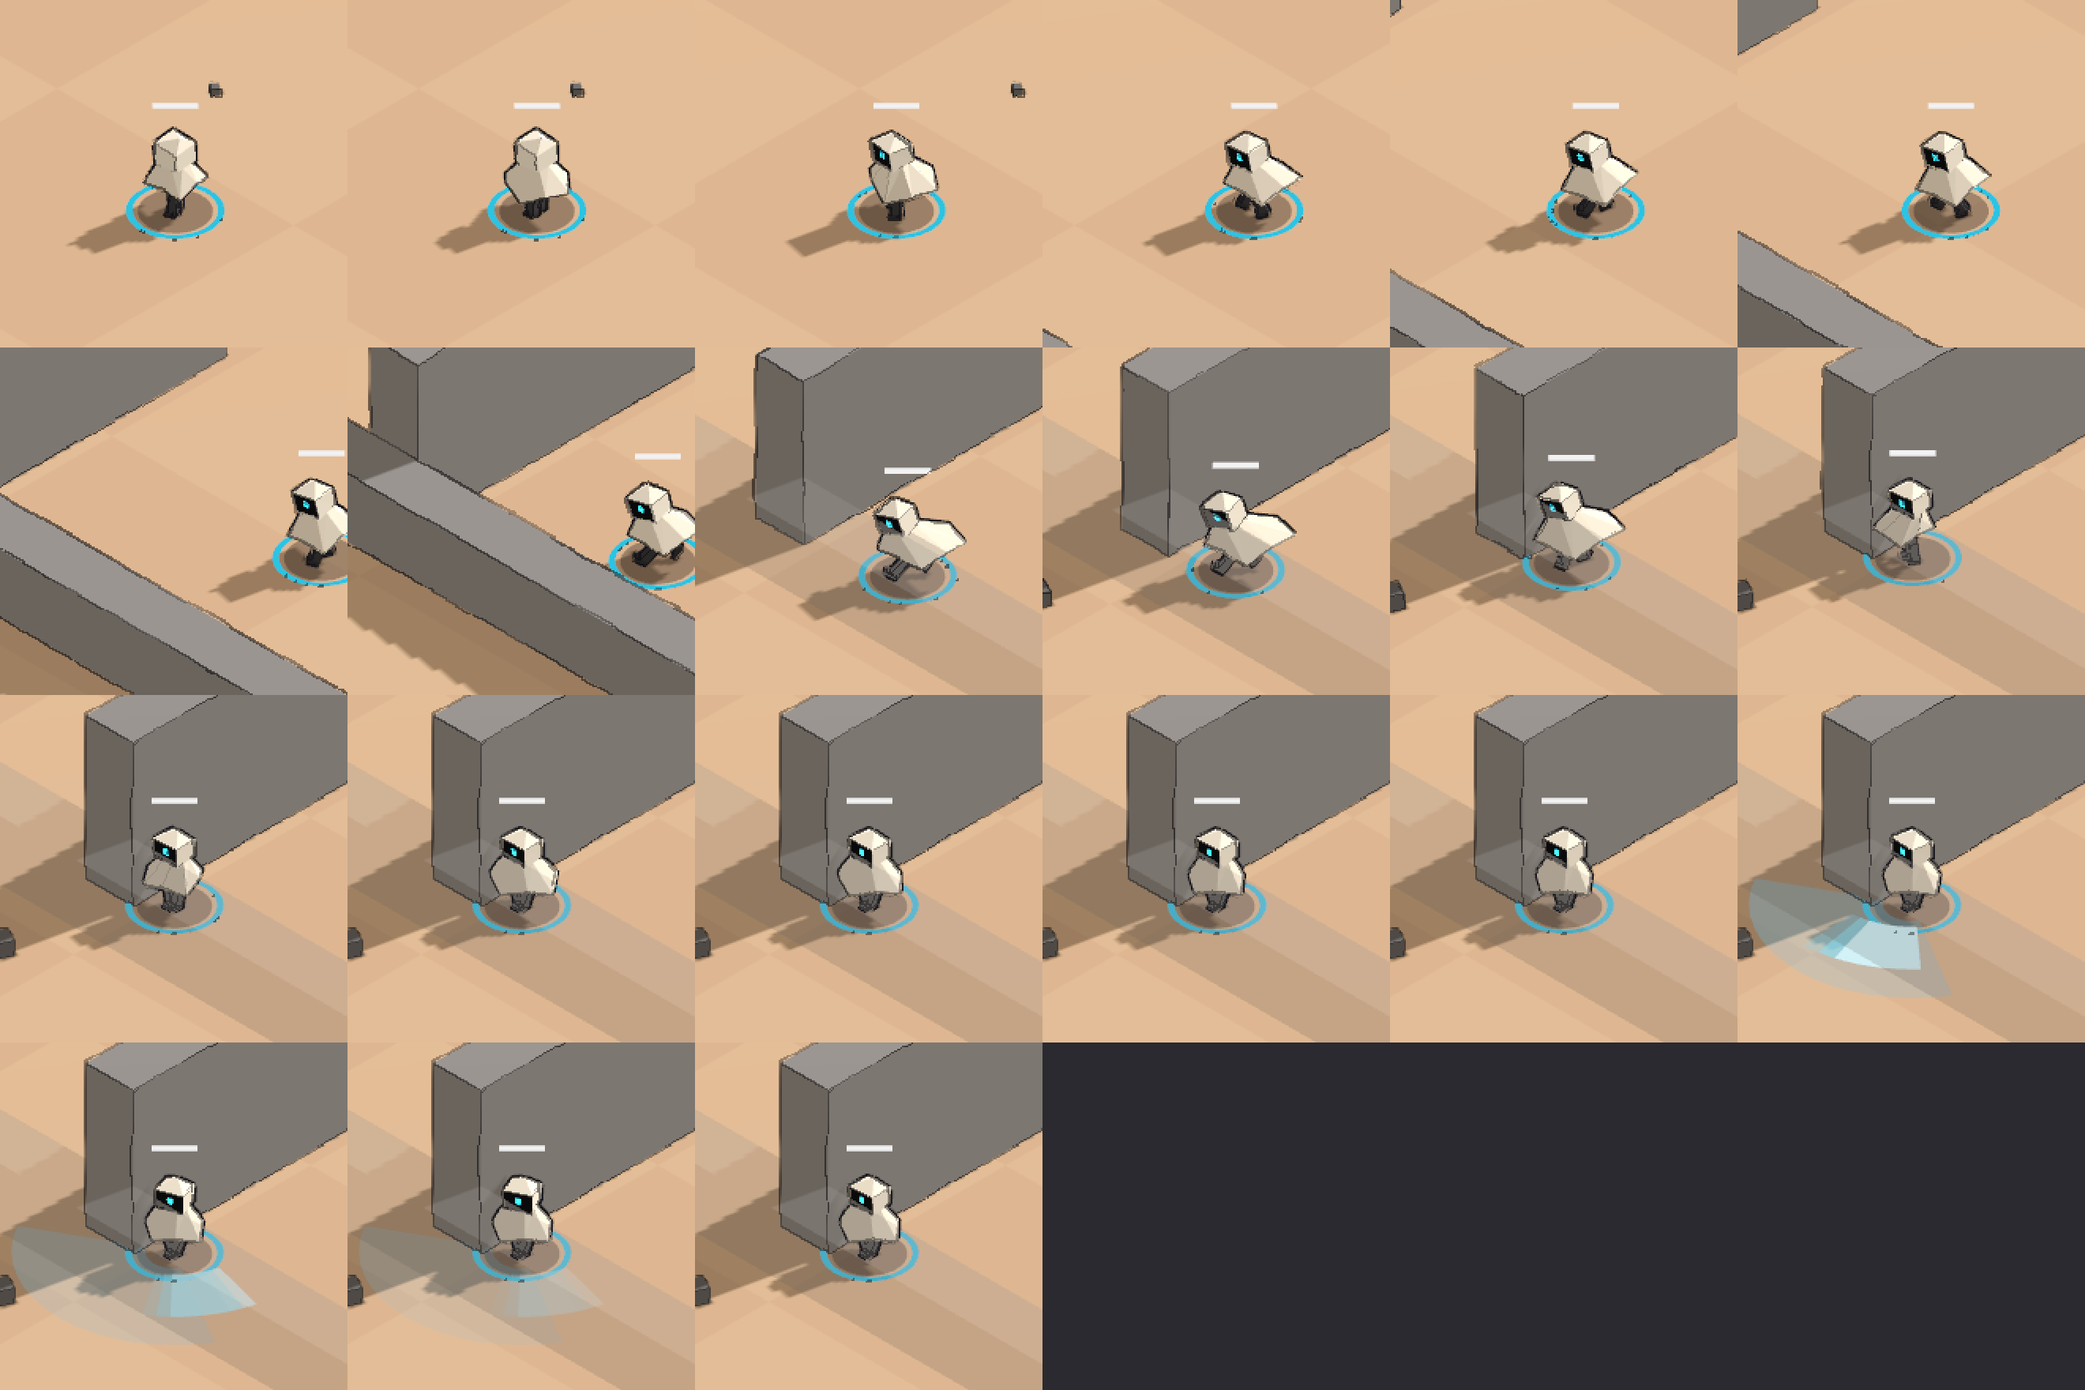
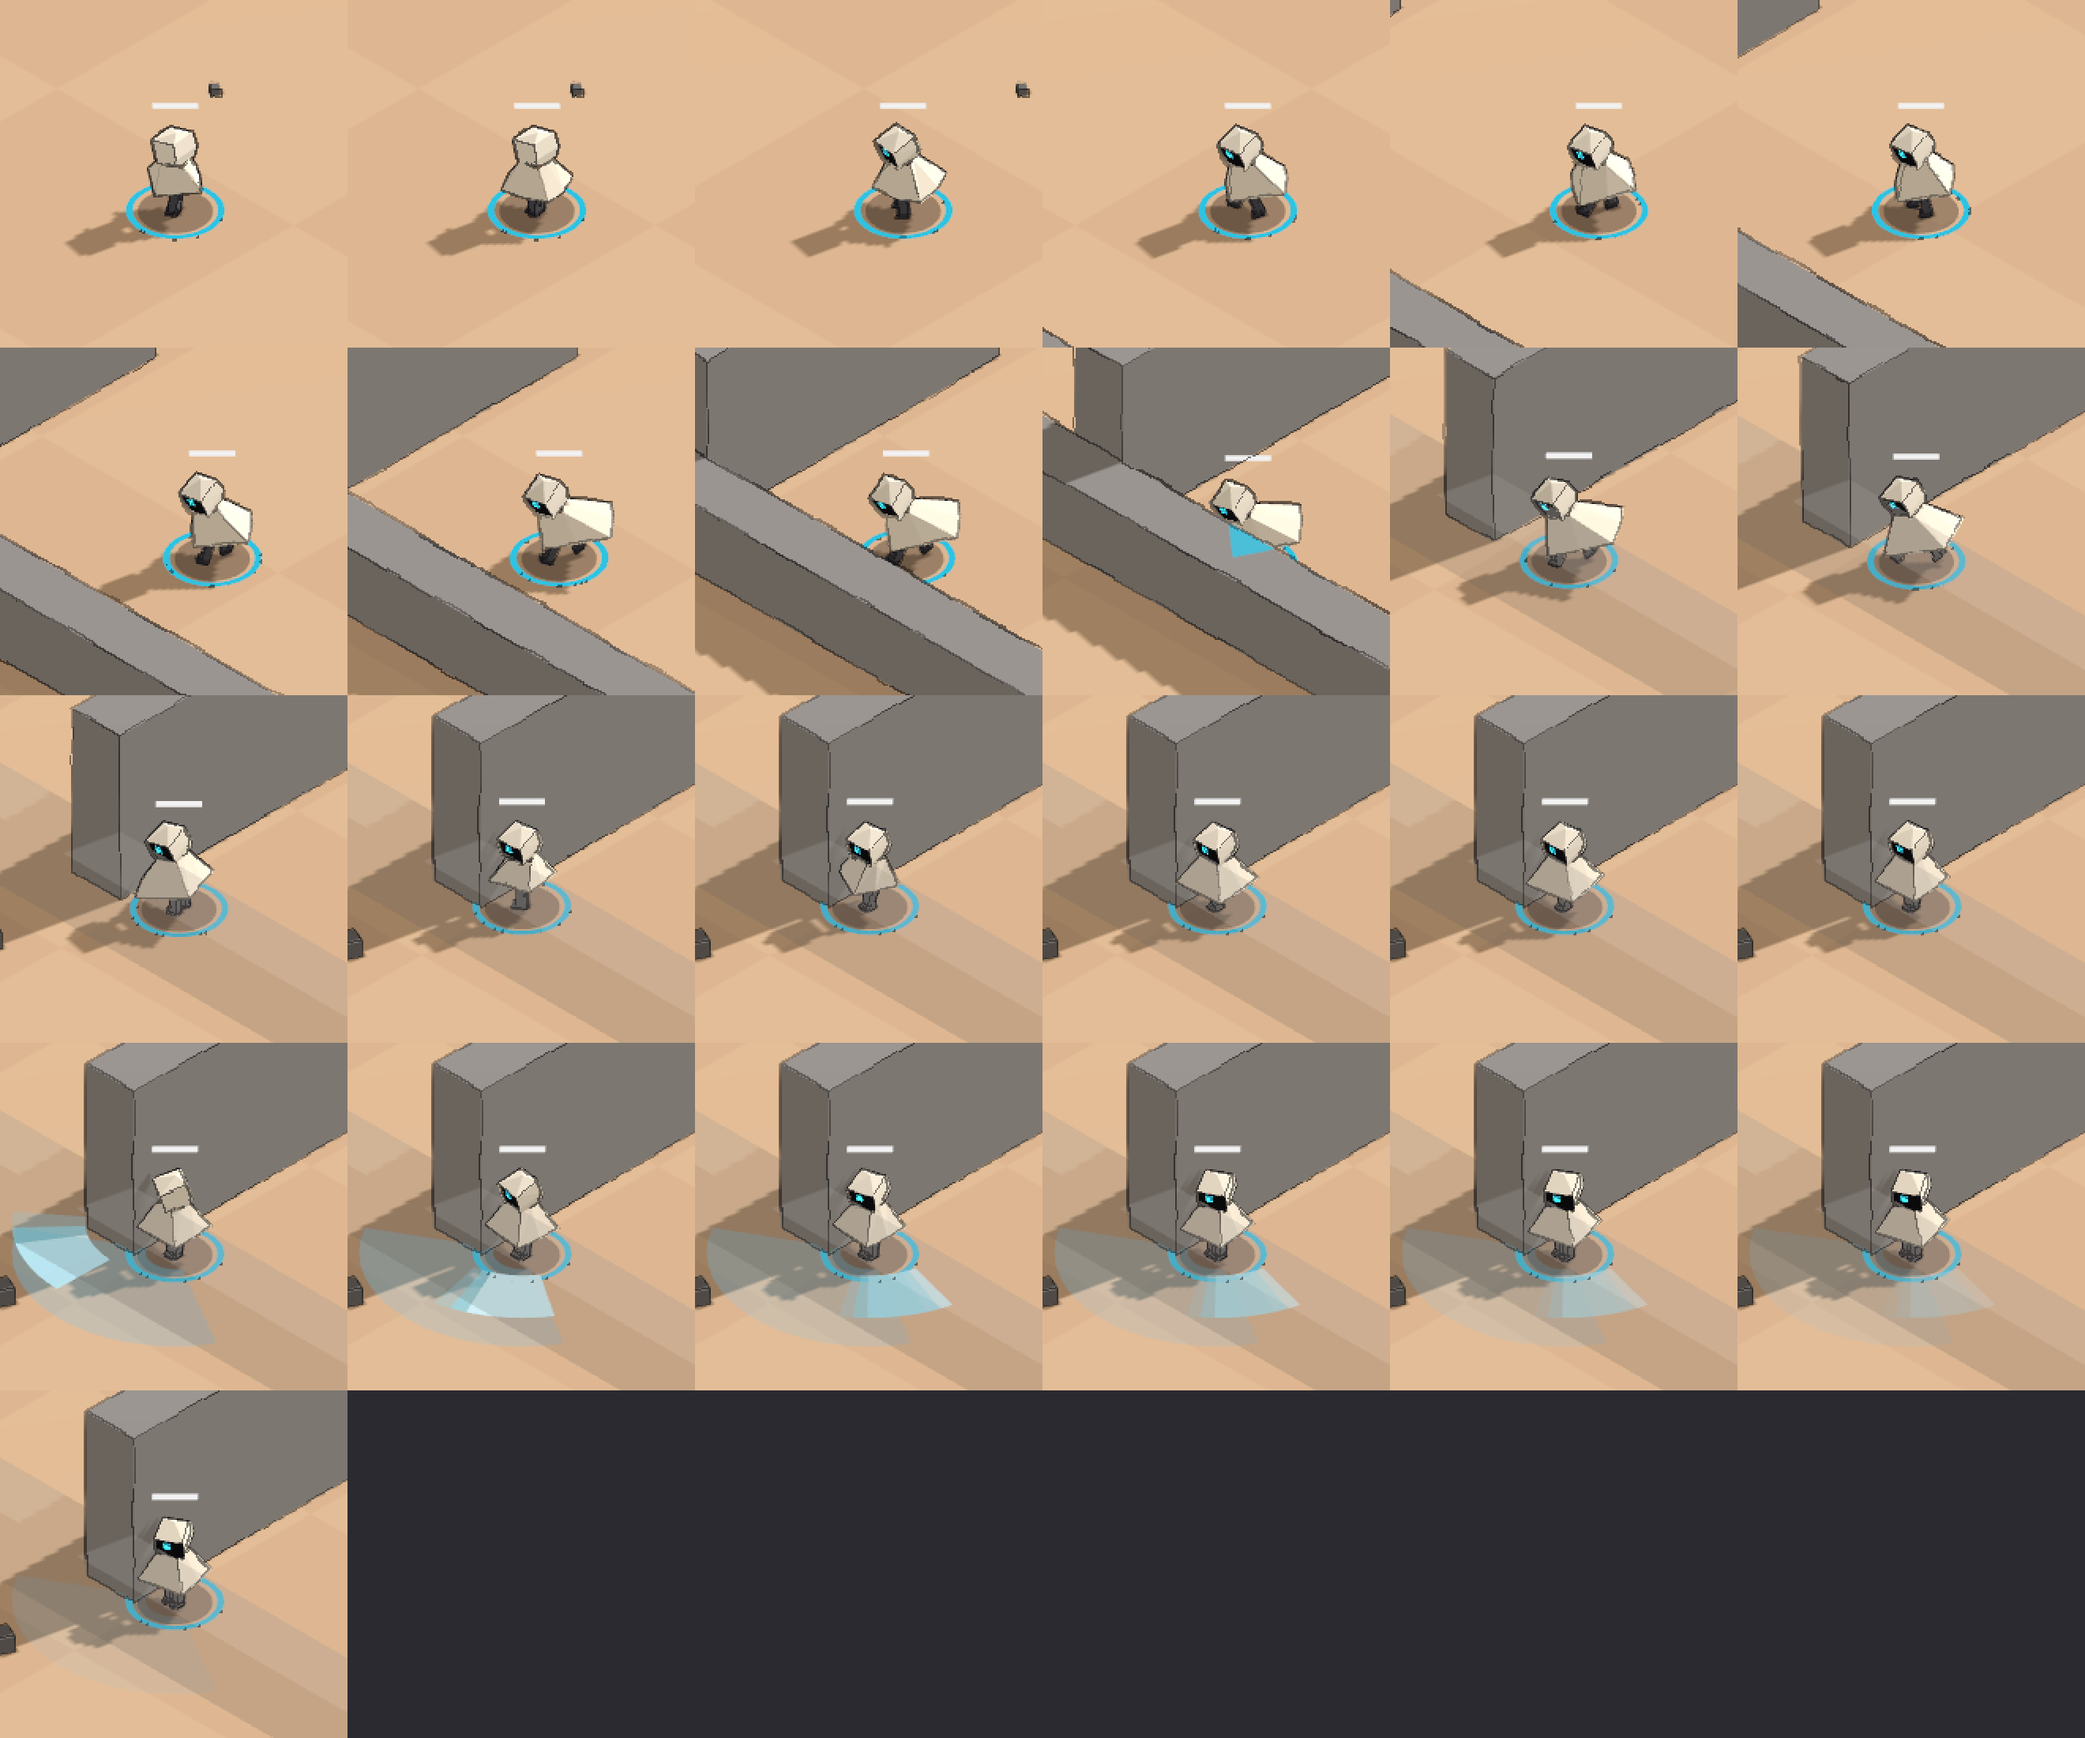
v0.2.0 G: the wanderer matches the reference more closely: tent cloak, forward-tipped box hood, longer legs
Refinement round against docs/art/main_character_visual_reference.png: the cloak is a square tent with
corners on the diagonals and a soft fold per side (no star points), hem near-level at 0.40 m and ~1.7x the
hood width; the hood is a tapered box under a low back-peaked roof, tipped forward, with a recessed dark
face and a smaller off-centre visor; longer lighter-charcoal legs with a gap; a thinner avatar rim; the
dead pose pools the cloak under the hood. The shot script steps the sim once per frame around the dash and
the swing so the evidence shows the twist. CHARACTER.md updated with what matches and what still differs.

Claude-Session: https://claude.ai/code/session_01Ybi1y9EcEtDzJ8CFycqiNq

diff --git a/docs/roadmap/v0.2.0/evidence/CHARACTER.md b/docs/roadmap/v0.2.0/evidence/CHARACTER.md
@@ -6,10 +6,33 @@ iso camera (`IsoRig`: yaw 45°, pitch 35.26°), next to the owner's reference
 driven by key and mouse events.
 **What it doesn't prove:** whether it looks right or feels good to the owner. Feel and taste are `OWNER ONLY`.
 
-- **Build:** the renders ran on a working tree based on `088a852` with this step's files uncommitted. The code and
-  the shot script were the same as the committed ones; only this doc and the copied PNGs were added after the run.
+- **Build:** the renders ran on a working tree based on `701302f` (the first pass) with this refinement round's
+  changes uncommitted. The code and the shot script were the same as the committed ones; only this doc and the
+  copied PNGs were added after the run.
 - **Machine:** a cloud container, software Vulkan (llvmpipe), under xvfb. This is not the owner's hardware. On this
-  renderer several physics ticks run per rendered frame (about 4), so the frames are far apart in time.
+  renderer about 4 physics ticks run per rendered frame.
+
+## Round 2 (coordinator's refinement list, 2026-10-07)
+
+The coordinator asked for one refinement round toward the reference. I compared each render side by side with the
+reference turnaround while iterating. Changes:
+1. **Cloak:** a square tent (frustum) with its corners on the diagonals, as the reference shows in its 3/4 views. Its
+   four large faces each have a soft vertical fold down the middle. There are no star points. The hem is nearly level
+   (a few cm uneven) at 0.40 m, so the legs show. Face-on, the hem is about 1.7× the hood's width (0.62 m vs 0.37 m).
+   It is now one ring of 8 spring points; the second, lower ring is gone.
+2. **Hood:** a taller box whose lower sides and back taper in, under a low roof that peaks toward the back. The front
+   is open, with the dark face set 3 cm back. The hood sits slightly forward and tips forward about 15°, as in the
+   reference. It is about 0.38 m of the figure's roughly 1.15 m, a third rather than the 40% the coordinator asked for.
+3. **Visor:** smaller relative to the face (about 7 × 9 cm on a 36 cm face, after the hood's 0.92 scale) and set off-centre.
+4. **Legs:** longer (0.41 m), a lighter charcoal (`#4A4C56`) with darker boots, and a gap between them about one leg
+   wide.
+5. **Outline:** the avatar's rim is 0.018 m, about half the other actors' 0.035. The X-ray twins on the hood and the
+   cloak are unchanged.
+6. **Dead pose:** the hips sit down, the cloak pools wider and lower, the hood droops and rolls on top with a dimmed
+   visor, and the boots stick out at the front.
+7. **Swing and dash capture:** around the dash and the swing, the shot script now lets the sim step only once per
+   rendered frame (it toggles `SimDriver.paused`, in the shot script only). The frames land 2 ticks apart. I tried
+   `Engine.time_scale` first, and it didn't change the ticks per frame here.
 
 ## Commands
 
@@ -36,8 +59,8 @@ character: res://build/shots/v0.1.0-dev/character/turnaround.png reference=/home
 Godot Engine v4.7.2.stable.official.ed1daf0bf - https://godotengine.org
 Vulkan 1.4.318 - Forward+ - Using Device #0: Unknown - llvmpipe (LLVM 20.1.2, 256 bits)
 
-character: res://build/shots/v0.1.0-dev/character/motion.png frames=21 full=res://build/shots/v0.1.0-dev/character/motion_full.png
-character: cells (row-major) = idle t24, walk t36, walk t48, walk t60, walk t72, dash t80, dash t84, dash t88, dash t92, dash t96, dash t100, stop t120, stop t132, stop t144, stop t156, swing t172, swing t176, swing t180, swing t184, swing t188, swing t192
+character: res://build/shots/v0.1.0-dev/character/motion.png frames=25 full=res://build/shots/v0.1.0-dev/character/motion_full.png
+character: cells (row-major) = idle t24, walk t36, walk t48, walk t60, walk t72, dash t80, dash t82, dash t84, dash t86, dash t88, dash t90, dash t92, dash t94, stop t111, stop t123, stop t135, stop t147, swing t171, swing t173, swing t175, swing t177, swing t179, swing t181, swing t183, swing t185
 ```
 
 (The build folder says `v0.1.0-dev` because that's what `GameVersion.label()` returns on this branch.) The sheets were
@@ -47,32 +70,38 @@ copied by hand: `turnaround.png` → [`character_turnaround.png`](character_turn
 ## Turnaround sheet ([`character_turnaround.png`](character_turnaround.png))
 
 - **Left, top row:** five avatars on Ruins-coloured ground under the game's light. They face front, 3/4, side, 3/4
-  back and back. The camera is the real `IsoRig`, with its view zoomed to 3.4 m so the figure fills the cell. There's
-  no team ring here, because the ring belongs to `ActorViews`. The motion sheet shows it.
+  back and back. The camera is the real `IsoRig`, with its view zoomed to 3.4 m. There's no team ring here, because
+  the ring belongs to `ActorViews`. The motion sheet shows it.
 - **Left, bottom row:** poses driven through `PlayerAvatar.apply_state` with made-up sim state, not from the game. In
   order: idle; walking in place at 6 m/s; dashing at about 27 m/s; swinging (tick 6 of 14); guarding; dead.
 - **Right:** the owner's reference, scaled to the sheet's height.
 
-**What I see that matches the reference:**
-- The figure is a big, boxy, off-white hood over a wide, faceted, tent-shaped cloak, with two short dark legs under
-  it.
-- The front of the hood is a dark face plate inside a light rim, with a small glowing cyan rectangle in it.
-- The back views show only cloak and hood, and the hood rises to a peak.
-- It's flat-shaded, with lighter and darker facets, and its shading sits close to the reference's beige.
+**What I see that matches the reference now:**
+- **3/4 views:** in the 3/4 front and 3/4 back views (top row, cells 2 and 4), the cloak reads as the reference's
+  tent. A corner points at the viewer, there are big flat facets, and the hem makes a V toward the viewer with
+  corners out to the sides.
+- **Hood:** a forward-tipped box with a dark recessed face and a small off-centre cyan visor.
+- **Legs:** two dark legs with boots, visibly separate in the 3/4 and walking views.
+- **Back:** the back views show only the cloak and the hood.
+- **Outline:** the rim is noticeably lighter than in round 1.
 
 **What still differs (honestly):**
-- Every body piece has the game's black stencil rim outline (PRESENTATION §3). The reference has no outlines, so mine
-  looks heavier and more "inked" at this zoom.
-- The reference hood is a rounder, chamfered box whose top reads as a flat face from the front. Mine is a box under a
-  four-faced roof. From the front views a low pointed roof shows above the face, where the reference shows a flat top.
-- The reference visor is a small rectangle placed a bit off-centre. Mine is centred and somewhat larger relative to
-  the face plate.
-- The reference cloak is a smoother pyramid with fewer, larger facets and a slightly concave hem. Mine is an 8-cornered
-  diamond (four long corners and four short ones), and in the side views it reads as more star-shaped and pointier at
-  the hem.
-- The reference legs read longer and more clearly as two separate legs. In my front views the two legs often merge
-  into one dark block under the hem.
-- The dead pose reads as a pale lump. It's recognisable as collapsed but not as a body.
+- **Face-on views:** the front, side and back views (cells 1, 3 and 5) see a flat side of the square cloak, so the
+  figure reads boxy, almost a rectangle, rather than a tent. The reference shows no face-on views; all five of its
+  views look roughly 3/4. In-game, the camera is fixed at 45° yaw, so face-on happens whenever you aim or walk along
+  a screen diagonal.
+- **Roof:** from the back, the reference hood rises to a clear centred peak. My roof is low with its peak toward the
+  back, so from behind it reads as a slanted top more than a point. From the front it reads closer to the
+  reference's flat top.
+- **Hood seam:** in the 3/4-back view (cell 4) a small dark notch shows between the hood and the cloak's shoulders,
+  because the hood sits slightly forward. The reference has no gap.
+- **Legs face-on:** in the face-on front view the two legs still read as nearly one dark block.
+- **Shape and shading:** the reference is softer, with rounded-looking edges and gentle shading. Mine is hard-faceted,
+  with the game's ink rim.
+- **Dead pose:** it now shows the cloak pooled with the hood lying on top and the boots out in front. It reads as the
+  character collapsed, but the hood looks a little detached from the cloak.
+- **Dash pose:** the cloak streams back into a large flat sheet. That's stronger than "a bit"; tuning it is the
+  owner's call (`OWNER ONLY` for feel).
 
 ## Motion sheet ([`character_motion.png`](character_motion.png))
 
@@ -88,18 +117,16 @@ the output line above (row-major, 6 per row). The crop centre comes from the pla
 
 **What the frames show:**
 - **idle t24:** the wanderer from behind (the starting aim points away), with its cyan ring.
-- **walk t36–t72:** the hood turns toward the lower-left aim, the cyan visor shows, the legs are visibly apart in
-  stride, and the cloak's trailing edge swings out behind the motion.
-- **dash t80–t100:**
-  - In t80 and t84 the player is at the right edge of the crop. The camera and the crop lag the dash, so these two
-    cells are badly framed.
-  - From t88 to t96 the figure leans hard into the dash, its cloak streams far back (to the right) and the legs trail.
-  - By t100 the cloak is coming back in.
-- **stop t120–t156:** the figure stands still by a wall (which the occlusion fade has made see-through). The cloak
-  is back to its rest shape, with no visible jitter between these four frames.
-- **swing t172–t192:** the slash fan draws toward the lower left and the visor faces it. **I can't see a clear body
-  twist in these frames:** the twist is quick, and about 4 ticks pass between grabs. The unit tests don't check the
-  twist either.
+- **walk t36–t72:** the hood turns toward the lower-left aim, the cyan visor shows, the legs are apart in stride, and
+  the cloak's trailing edge swings out behind the motion.
+- **dash t80–t94 (2 ticks apart):** the figure leans into the dash and the cloak streams back into a flat sheet. At
+  t88 it passes a wall edge, and a small cyan triangle shows at its feet. I believe that's another view's dash effect,
+  not the avatar, but I didn't check. By t92–t94 the cloak is coming back in.
+- **stop t111–t147:** the figure stands still by a wall (made see-through by the occlusion fade). The cloak is back to
+  its tent shape, with no visible jitter between these four frames.
+- **swing t171–t185 (2 ticks apart):** at t171 the hood is turned away from the slash (the wind-back). At t173 it is
+  turning. From t175 on, the visor faces the slash toward the lower left. This is the body twist, visible now. The
+  slash fan sweeps across the cells.
 
 **Not shown in the game frames:** guard and death. They appear only as synthetic poses in the turnaround sheet's
 bottom row and in the unit tests. How smooth it is at 30–144 fps on real hardware: `NOT YET RUN` (`OWNER ONLY` for
@@ -107,7 +134,7 @@ feel).
 
 ## Tests
 
-`tests/unit/presentation/test_player_avatar.gd` (8 tests) covers:
+`tests/unit/presentation/test_player_avatar.gd` (8 tests, unchanged in round 2, all passing) covers:
 - the parts (hood, visor, face, cloak, two legs);
 - X-ray twins only with the `xray` technique;
 - the visor facing four aim angles through a real `World` and `WorldReader`;
